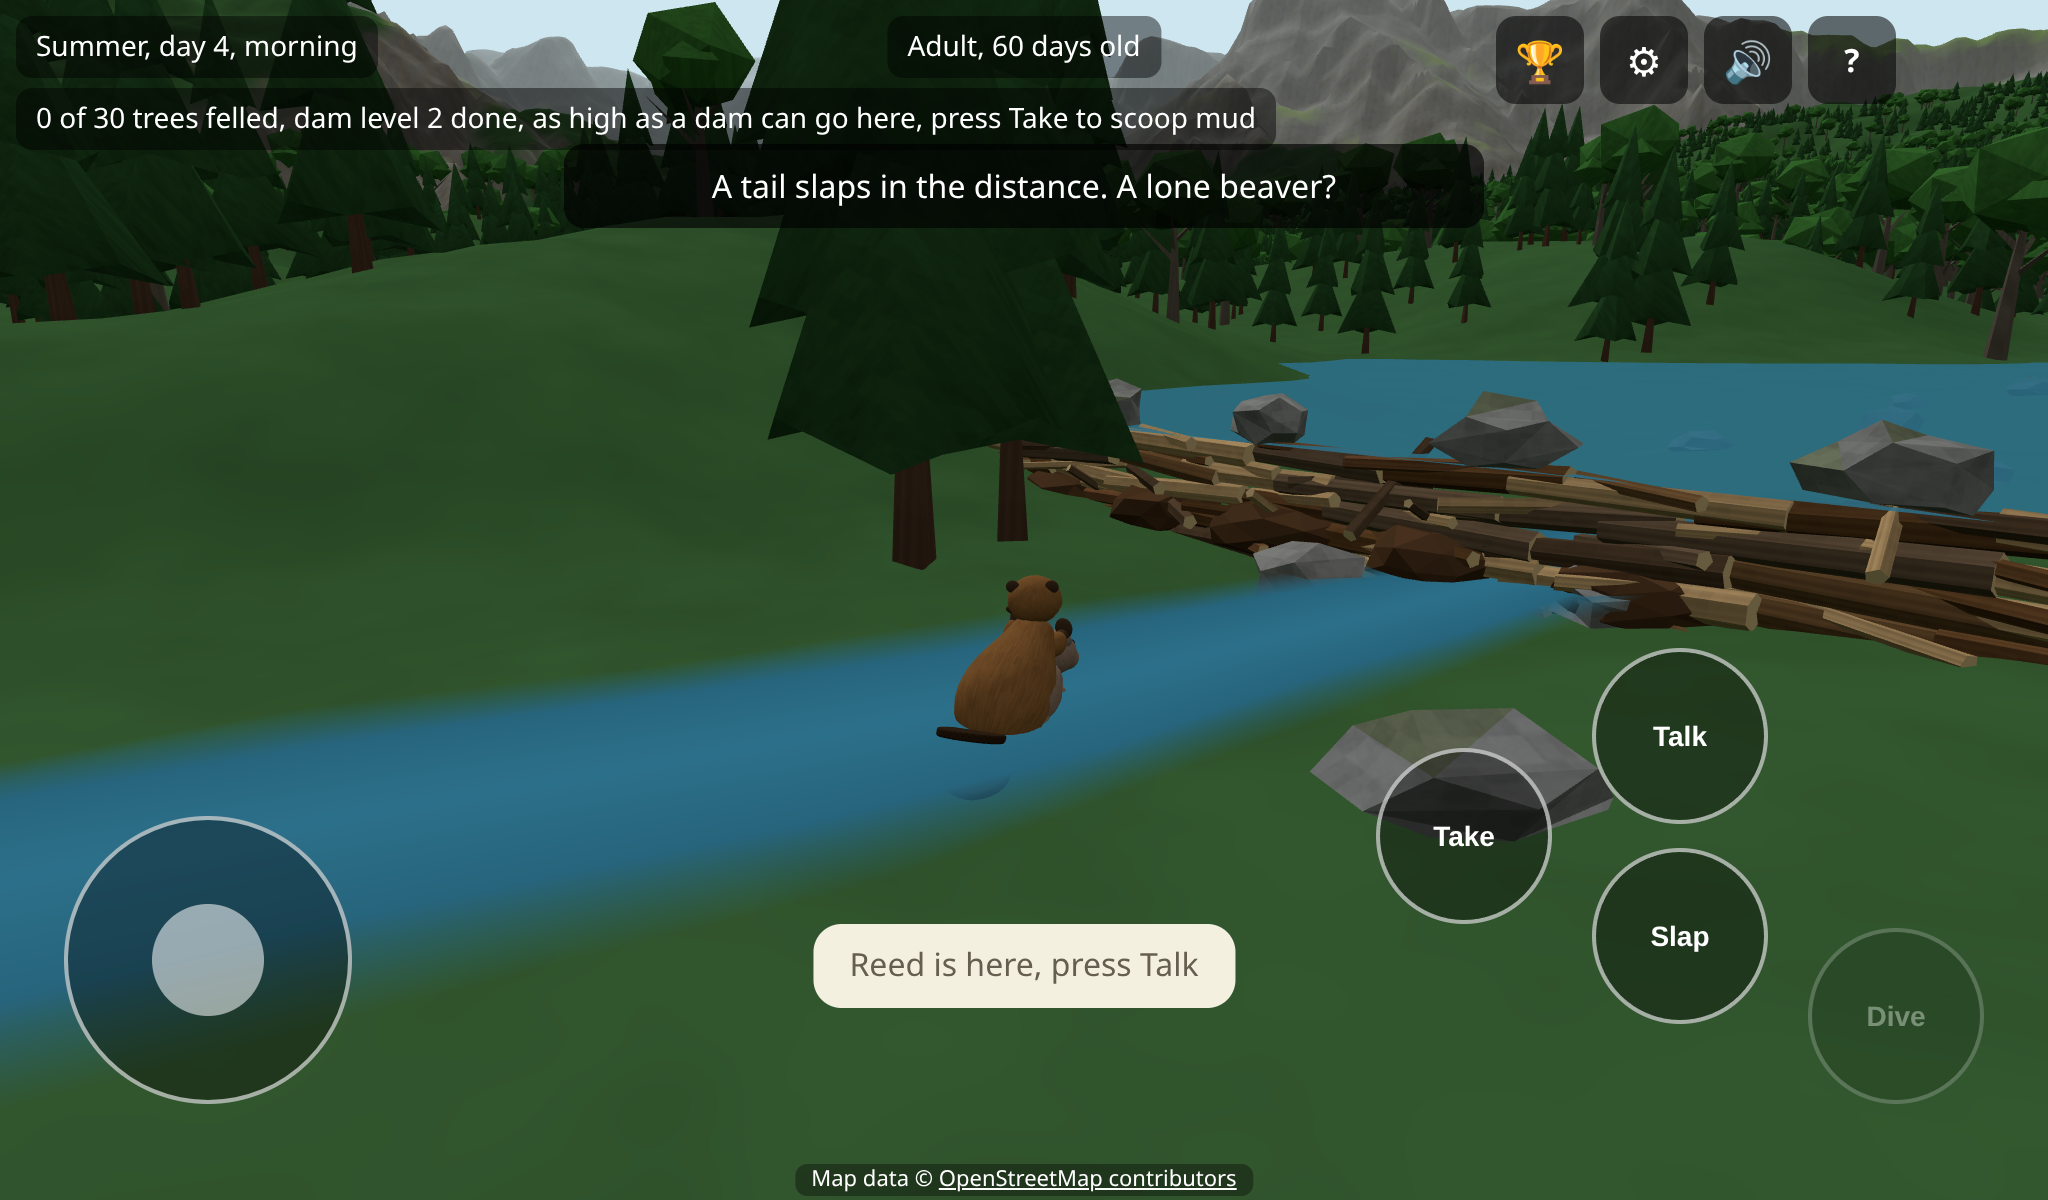
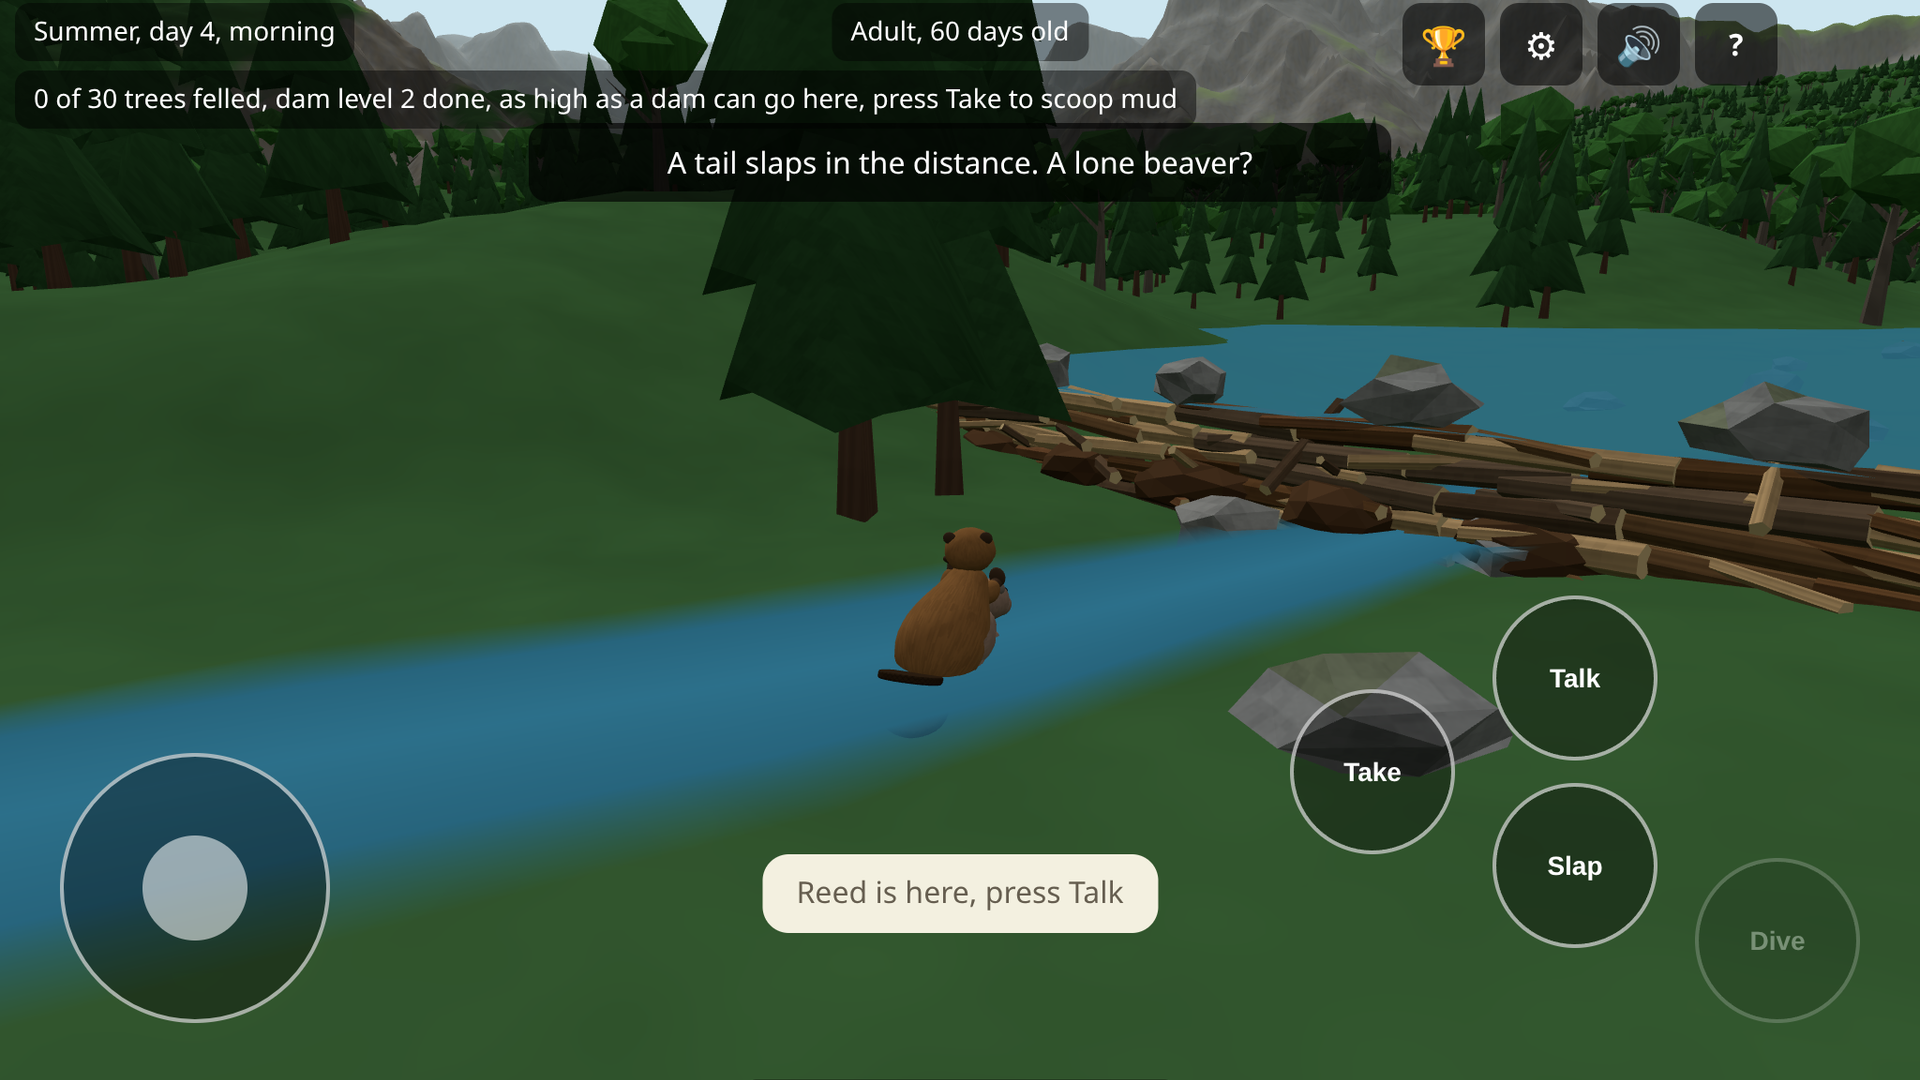
docs: scale the dam screenshot to 1920x1080 like the others
Claude-Session: https://claude.ai/code/session_01ApLv1ZESU1N7F2tVUofLnJ

diff --git a/tools/standalone-apk/README.md b/tools/standalone-apk/README.md
@@ -68,6 +68,7 @@ ANDROID_HOME=~/Android/Sdk JAVA_HOME=~/Android/jdk-21 ./build_aab.sh
 
 `store/` holds what the Play listing asks for, taken from the game itself (no art the game does not show): `icon-512.png`,
 `feature-graphic.png` (1024x500, a crop of the lodge shot without the controls), and eight tablet screenshots
-(`screenshot-*.png`, in the order the listing shows them, the first is the one search results show: 1920x1080 play captures and
-one 2048x1200 dam shot). To take new candidates: `STORE_SHOTS=some/dir npx playwright test tests/e2e/store-shots.spec.ts`
+(`screenshot-*.png`, 1920x1080, in the order the listing shows them; the first is the one search results show; the dam shot was
+scaled from 2048x1200 and trimmed a little at the top and bottom). To take new candidates:
+`STORE_SHOTS=some/dir npx playwright test tests/e2e/store-shots.spec.ts`
 (needs the tiles, 1 to 2 minutes; the seasons, a dam, the family, the dream, the other places), pick by eye, and copy them here.
